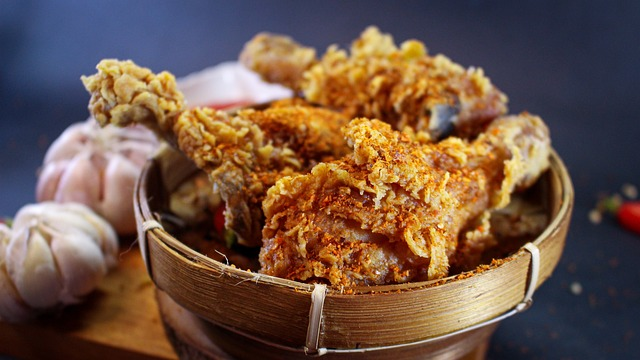
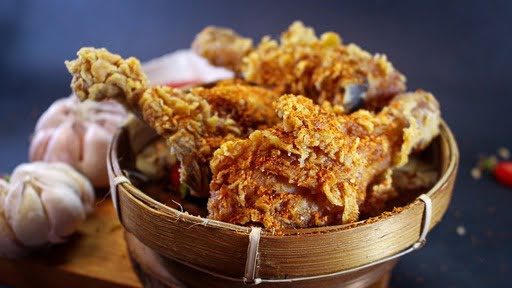
comprimi las imagenes y agregue keywords

diff --git a/index.html b/index.html
@@ -4,7 +4,7 @@
     <meta charset="UTF-8">
     <meta name="viewport" content="width=device-width, initial-scale=1.0">
     <title>🍗Pollo frito Piccione</title>
-
+    <meta name="keywords" content="Restaurante, Pollo frito, Comida Rapida, Restaurante cerca de mi">
 
     <link href="https://cdn.jsdelivr.net/npm/bootstrap@5.3.0-alpha1/dist/css/bootstrap.min.css" rel="stylesheet">
     <link href="https://unpkg.com/aos@2.3.1/dist/aos.css" rel="stylesheet">

diff --git a/Secciones/Contacto.html b/Secciones/Contacto.html
@@ -3,6 +3,7 @@
 <head>
     <meta charset="UTF-8">
     <meta name="viewport" content="width=device-width, initial-scale=1.0">
+    <meta name="keywords" content="restaurante, pollo frito, comida Rapida, restaurante cerca de mi">
     <title>🍗Pollo frito Piccione</title>
     <link href="https://cdn.jsdelivr.net/npm/bootstrap@5.3.0-alpha1/dist/css/bootstrap.min.css" rel="stylesheet">
     <link rel="stylesheet" href="../style/style.css">

diff --git a/Secciones/Menú.html b/Secciones/Menú.html
@@ -3,6 +3,7 @@
 <head>
     <meta charset="UTF-8">
     <meta name="viewport" content="width=device-width, initial-scale=1.0">
+    <meta name="keywords" content="restaurante, pollo frito, comida Rapida, restaurante cerca de mi">
     <title>🍗Pollo frito Piccione</title>
     <link href="https://cdn.jsdelivr.net/npm/bootstrap@5.3.0-alpha1/dist/css/bootstrap.min.css" rel="stylesheet">
     <link rel="stylesheet" href="../style/style.css">

diff --git a/Secciones/Testimonios.html b/Secciones/Testimonios.html
@@ -3,6 +3,7 @@
 <head>
     <meta charset="UTF-8">
     <meta name="viewport" content="width=device-width, initial-scale=1.0">
+    <meta name="keywords" content="restaurante, pollo frito, comida Rapida, restaurante cerca de mi">
     <title>🍗Pollo frito Piccione</title>
     <link href="https://cdn.jsdelivr.net/npm/bootstrap@5.3.0-alpha1/dist/css/bootstrap.min.css" rel="stylesheet">
     <link rel="stylesheet" href="../style/style.css">

diff --git a/Secciones/sobre nosotros.html b/Secciones/sobre nosotros.html
@@ -3,6 +3,7 @@
 <head>
     <meta charset="UTF-8">
     <meta name="viewport" content="width=device-width, initial-scale=1.0">
+    <meta name="keywords" content="restaurante, pollo frito, comida Rapida, restaurante cerca de mi">
     <title>🍗Pollo frito Piccione</title>
     <link href="https://cdn.jsdelivr.net/npm/bootstrap@5.3.0-alpha1/dist/css/bootstrap.min.css" rel="stylesheet">
     <link rel="stylesheet" href="../style/style.css">
